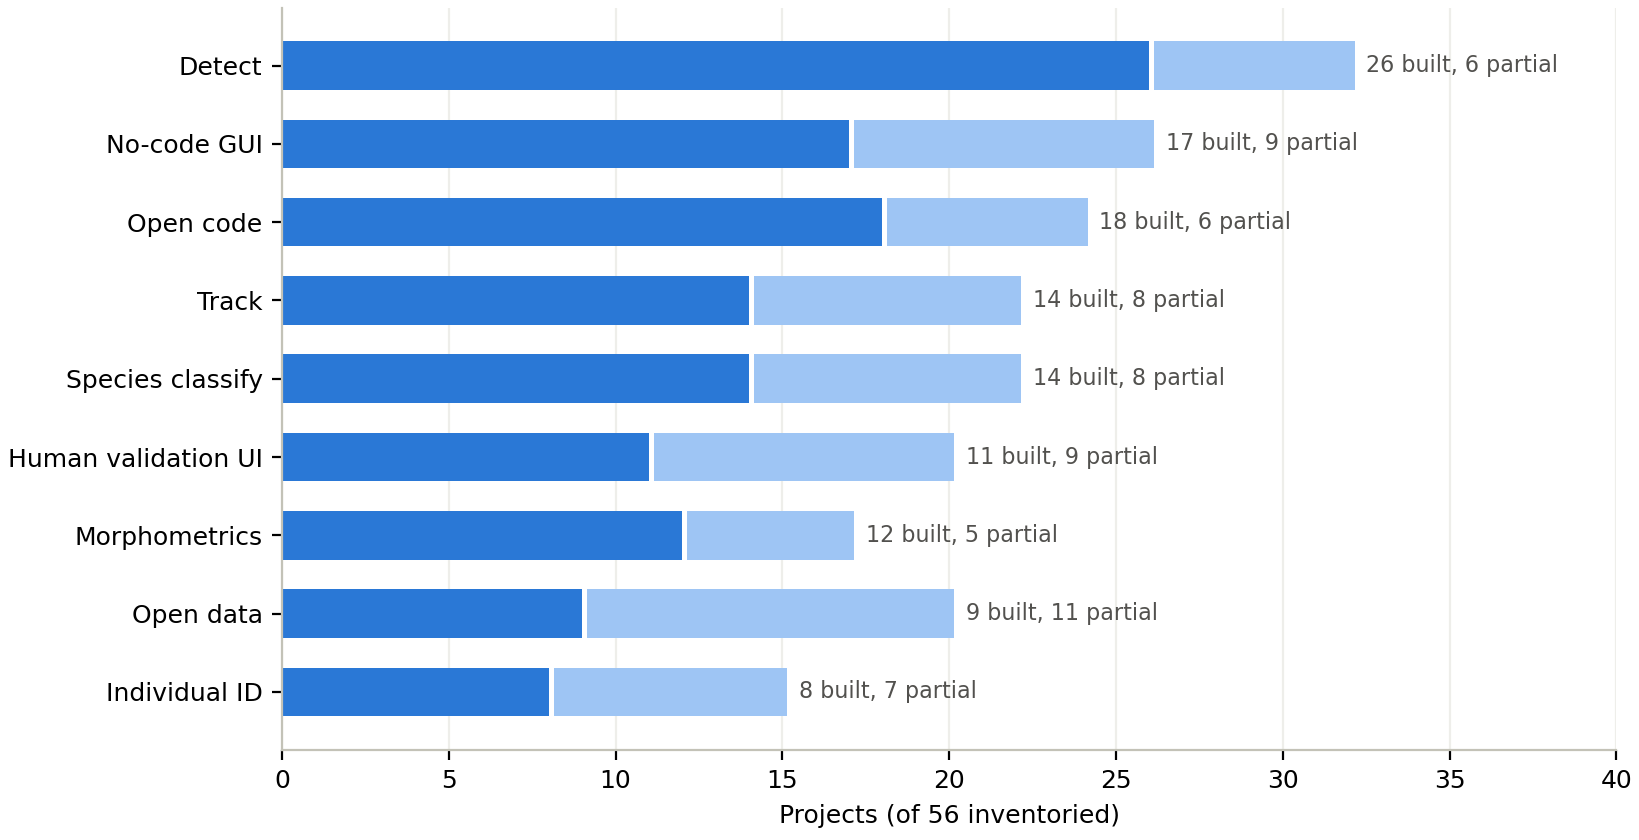
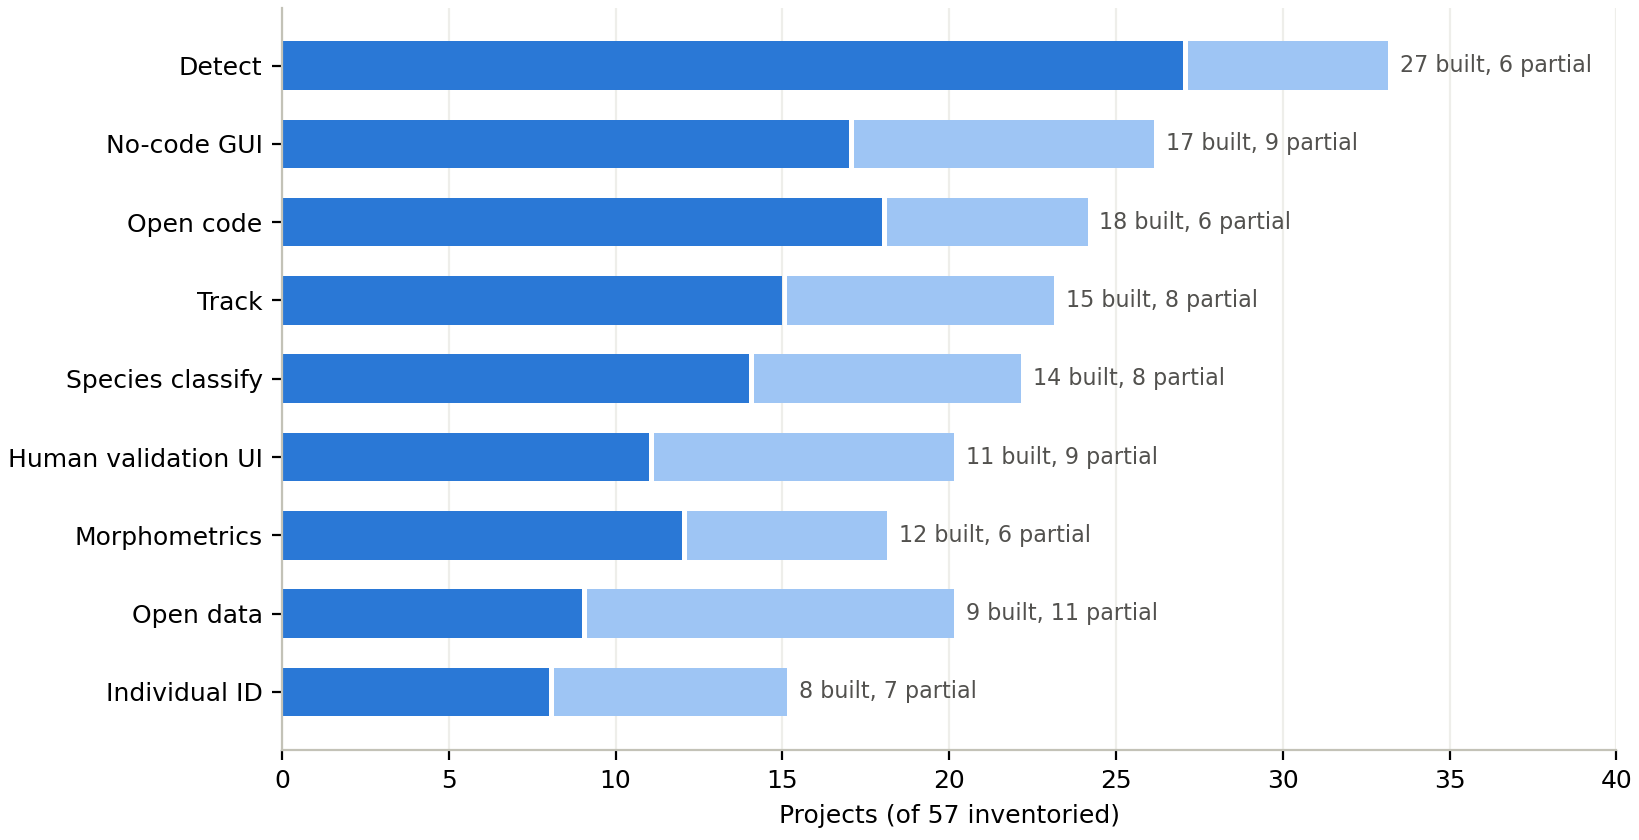
Inventory: add row 57 (Satterfield, FAU: drone keypoint tracking of blacktip shark schools); 57 projects

diff --git a/inventory.md b/inventory.md
@@ -1,4 +1,4 @@
-# Inventory: 56 shark and marine-megafauna computer-vision projects
+# Inventory: 57 shark and marine-megafauna computer-vision projects
 
 Compiled 1 and 6 October 2026. Columns kept to what is public; contacts are omitted (use the project pages). Rows 44 to 55 are from EEA 2026 abstracts; rows 11, 44 to 51, 54, and 55 were re-checked against talk transcripts.
 
@@ -60,3 +60,4 @@ Compiled 1 and 6 October 2026. Columns kept to what is public; contacts are omit
 | 54 | Pelagic thresher cleaning-station time-lapse cameras, Fuvahmulah (EEA 2026 talk) | Aquarium, deep sea, beach safety, other | Filippo Bocchi, Brioschi, Max Kimble and others; Fuvahmulah Shark Lab and Fuvahmulah Shark Research (two Maldivian NGOs), with Pelagic Divers and Fuvahmulah Dive School | Pelagic thresher shark Alopias pelagicus at three reef cleaning stations, Fuvahmulah, Maldives; 649 encounters 2022-2024 (abstract); passing vs circling ('cleaning display') motion, cleaner wrasse presence, sex where visible, interaction duration; odds of circling three times higher with cleaner wrasse present; encounters concentrated in the morning and midday | No CV. GoPro Hero 7 in a Blue Robotics deep-water housing with an extended-power camera tray, clamped to a cement block at each site; a still every 2 s from 06:00 to 17:00 (stills, not video); every image scored by hand (date, site, sex, cleaner presence 1/0, duration) into a spreadsheet; two-tier effort calendar; chi-square tests of encounter rate by time of day | Not stated; images uploaded to the NGOs' server | Not stated | Active; EEA 2026 talk Thu 8 Oct 2026 (Ecologically-Important Areas, 07:40 PDT); transcript read 8 Oct 2026 | EEA 2026 abstract booklet (Bocchi et al.); EEA 2026 talk pptx transcript (2026-10-08_07-38_Filippo-Bocchi_Pelagic-Thresher-Cleaning-Maldives.pptx); consortium/eea2026_intake.md |
 | 55 | Shark & Skate Scotland: flapper skate egg-laying site monitoring, Loch Melfort (EEA 2026 talk) | Aquarium, deep sea, beach safety, other | Lauren Smith, Chris Rickard; Shark & Skate Scotland (volunteer community science group), with Marnik van Cauter, Kilchoan Melfort Trust | Flapper skate Dipturus intermedius (Critically Endangered) egg-laying site at Campbell Rock, Loch Melfort, Scotland; 31 months of monthly SCUBA surveys of a marked plot (42 dives, 31 survey dives); 16 egg cases laid (13 spring, 2 autumn, 1 winter), viable cases measured and sampled non-invasively for genetics (University of Aberdeen); 10 BRUV deployments recorded 13 species (9 potential skate prey) but no D. intermedius; acoustic receiver logged two adult males tagged in the Firth of Lorn; Seasearch Observer forms recorded 62 species | No CV. BRUV footage reviewed by hand; diver surveys and photographs of egg cases and of live and dead skates; skate photographs are submitted to Skatespotter (SAMS photo-ID database) for individual ID | Not stated; skate photographs go to Skatespotter | Not stated | Published: Smith, Rickard and Van Cauter (2026), Aquatic Conservation: Marine and Freshwater Ecosystems, doi 10.1002/aqc.70374; EEA 2026 talk Tue 6 Oct 2026 (13:10 UK); transcript read 27 Oct 2026; BRUV effort limited by weather and volunteer time | EEA 2026 abstract booklet (Smith, Rickard, van Cauter); EEA 2026 talk transcript (2026-10-06_05-07_Lauren-Smith_Flapper-Skate-Egg-Site-Loch-Melfort); Crossref 10.1002/aqc.70374; email from Lauren Smith 27 Oct 2026 |
 | 56 | Skatespotter: flapper skate photo-ID catalogue, Scotland | Photo-ID / re-identification | SAMS (Scottish Association for Marine Science, Oban) and NatureScot; Benjamins et al. (2018 study); volunteer anglers, divers, and registered volunteer matchers | Flapper skate Dipturus intermedius, chiefly the Loch Sunart to the Sound of Jura MPA, now also Loch Linnhe and the Moray Firth; individuals told apart by dorsal spot patterns in photos from anglers and divers. Oct 2025 summary: 1,252 skate catalogued in the Firth of Lorn (3,954 captures since 2016, 52% recaptured at least once), 1,025 in the Sound of Jura, 129 Loch Linnhe, 88 Moray Firth; longest gap between photos 8 years | No automated matching stated: the 2018 study matched by visual pairwise comparison (486 photos, 373 capture events, 226 individuals); the site recruits registered volunteers to match photos to a 'residents' catalogue (best photo per skate); web upload of photos with optional capture details | Catalogue behind a login; gallery public; papers using the data listed on the site | Not stated | Active: catalogue updated about every 3 months; MPA summary Oct 2025; publications include Benjamins et al. 2018 (doi 10.1002/aqc.2937), and later papers on spatial management (doi 10.1002/aqc.4150) and reproduction from citizen-science photos (doi 10.1111/jfb.70044) | skatespotter.sams.ac.uk home page and 2025-10_MPA_summary.pdf (fetched 27 Oct 2026); Crossref and OpenAlex for doi 10.1002/aqc.2937; email from Lauren Smith 27 Oct 2026 |
+| 57 | Blacktip shark schooling: drone keypoint tracking and collective movement (FAU) | Drone / aerial | Darien Satterfield, Jumpstart postdoctoral associate, Florida Atlantic University (Charles E. Schmidt College of Science; PhD UC Davis), also OSEA co-founder (row 22); PIs Marianne Porter and Ashkaan Fahimipour (FAU Biological Sciences) | Blacktip sharks Carcharhinus limbatus, seasonal schooling aggregations in clear shallow water off eastern Florida (Palm Bay per her email); drone video from above. Aim: social movement rules behind organised swimming, and why schools switch between ordered and disordered motion after disturbances (the aggregations are protected, so disturbances are tested in agent-based simulations built from the footage) | Per-shark body keypoints from drone video (her example: about six points per shark, e.g. nose tip, tail tip, fin tips, on ~40-50 sharks per frame), tracked through time; deep-learning pipelines and agent-based models. Software and models not stated | Not stated | Not stated | Active: FAU Jumpstart postdoc project (FAU news, 28 Oct 2025); example tracking video sent 28 Oct 2026; agreed to join ocean-ID (28 Oct 2026) | FAU College of Science news, 'Fins, Feeds and Algorithms' (28 Oct 2025); FAU postdoc bio page; email from Darien Satterfield 28 Oct 2026 with a 6 s example video (1080p, 30 fps) |

diff --git a/README.md b/README.md
@@ -6,7 +6,7 @@
 
 ## The problem
 
-AI-assisted coding has removed the barrier that used to stop a field biologist from building a detector. The result: 56 shark and marine-megafauna computer-vision projects inventoried in October 2026, of which 26 have built their own detector and 14 their own tracker, almost all on the same Ultralytics YOLO stack, each trained on one region and failing in the next. Only 9 publish data. 8 have automated individual identification; the long-running photo-ID catalogues presented at EEA 2026 are matched by hand. The largest video archives hold no models at all. Nobody connects the layers.
+AI-assisted coding has removed the barrier that used to stop a field biologist from building a detector. The result: 57 shark and marine-megafauna computer-vision projects inventoried in October 2026, of which 27 have built their own detector and 15 their own tracker, almost all on the same Ultralytics YOLO stack, each trained on one region and failing in the next. Only 9 publish data. 8 have automated individual identification; the long-running photo-ID catalogues presented at EEA 2026 are matched by hand. The largest video archives hold no models at all. Nobody connects the layers.
 
 ![Who builds which layer](figures/fig_overlap_matrix.png)
 
@@ -39,11 +39,11 @@ One open platform built as six modules with stable interfaces, each owned by a g
 
 ## The inventory
 
-56 projects, compiled 1 October 2026 from public sources (GitHub and Zenodo APIs, project pages, conference abstracts) and extended on 6 October 2026 from the EEA 2026 abstract booklet. By category:
+57 projects, compiled 1 October 2026 from public sources (GitHub and Zenodo APIs, project pages, conference abstracts) and extended on 6 October 2026 from the EEA 2026 abstract booklet. By category:
 
 - Photo-ID / re-identification: 16
 - Platform / dataset / annotation tool: 11
-- Drone / aerial: 9
+- Drone / aerial: 10
 - Aquarium, deep sea, beach safety, other: 9
 - Shark/ray BRUV detector: 6
 - Fish BRUV / stereo-video platform: 5
